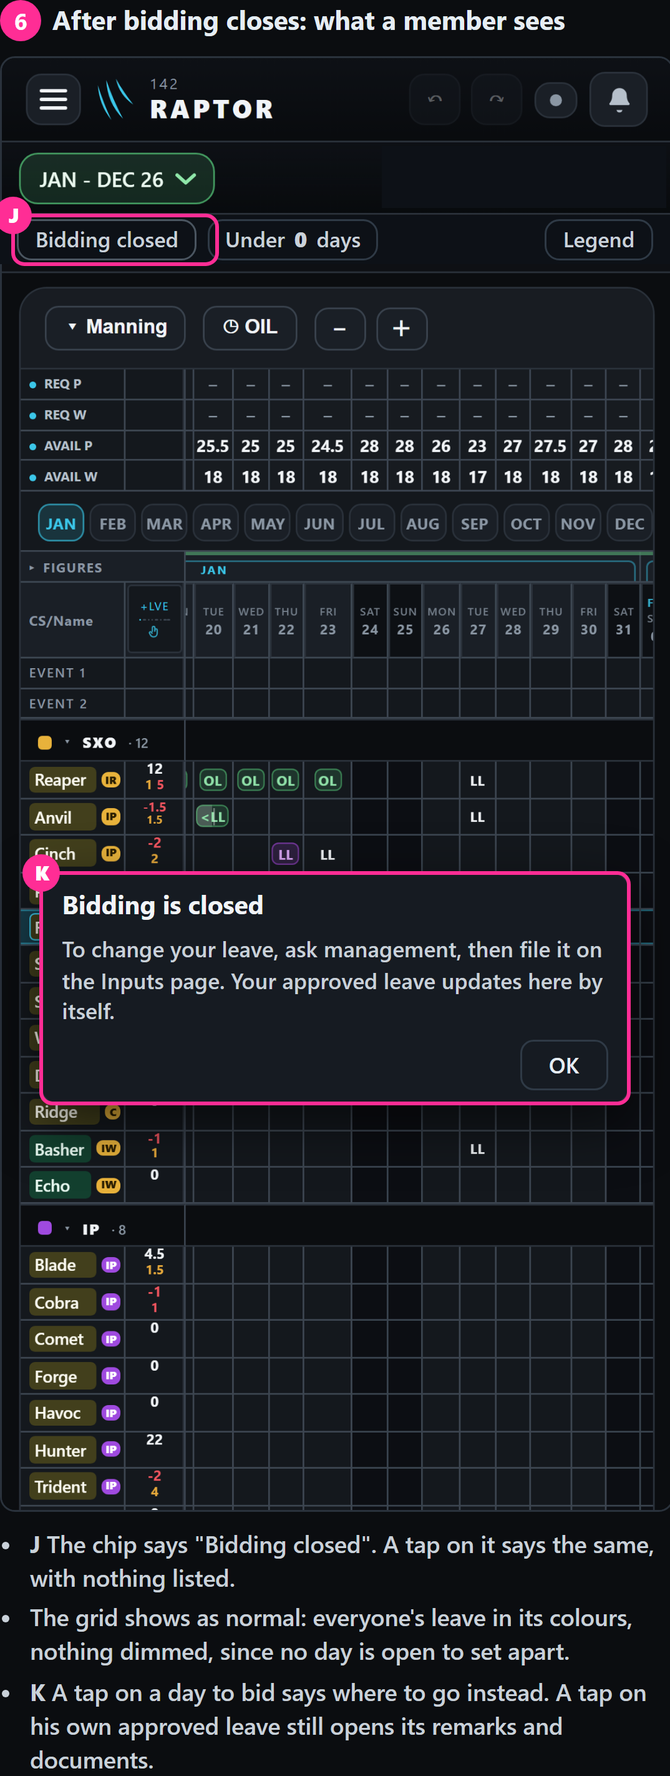
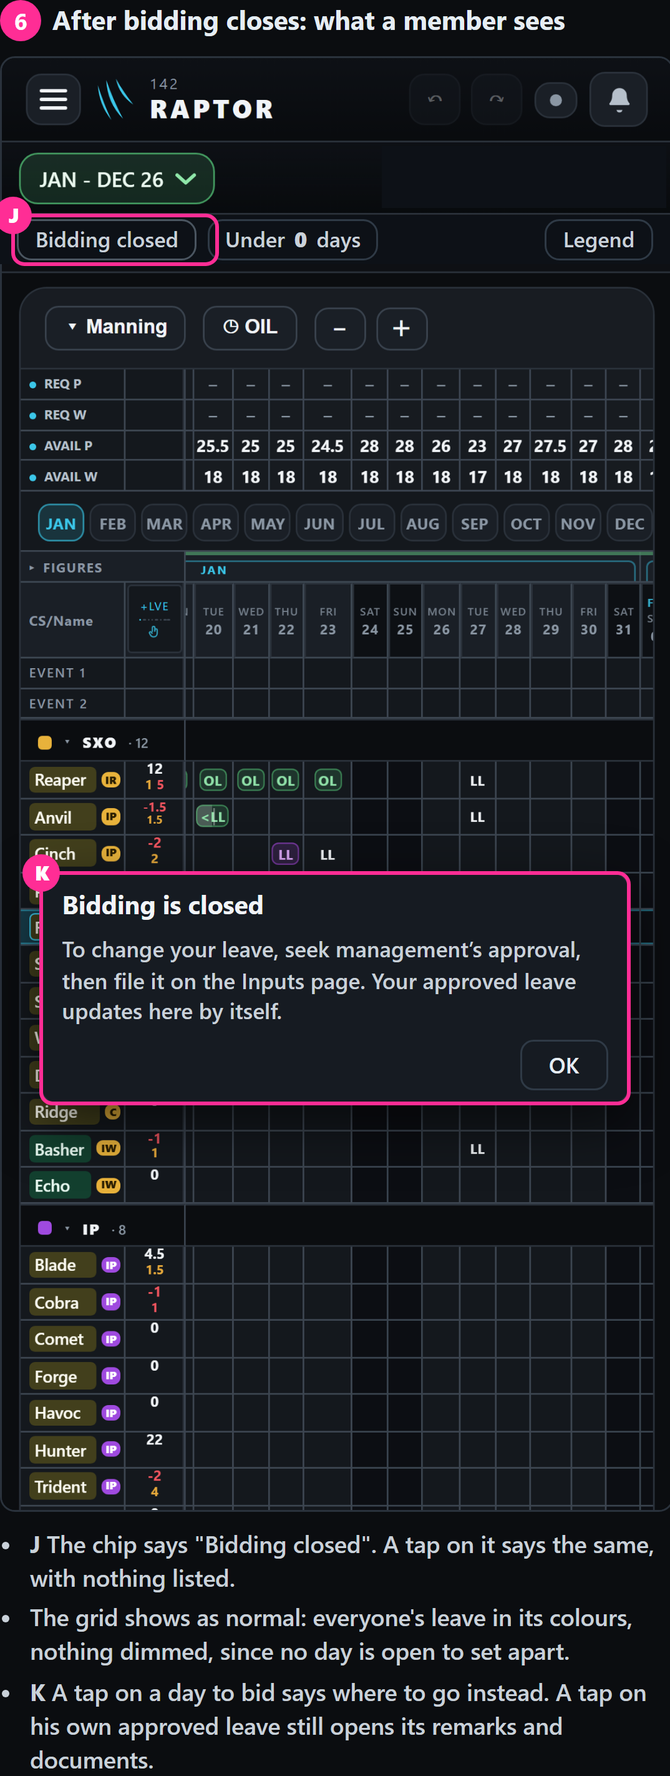
Leave War overhaul: D1176 - the closed note says "seek management's approval" (his words); step 6 redrawn; the page's version 19; the handoff.

Changed region(s): [[0.0922, 0.526, 0.8911, 0.5879]]

diff --git a/raptor-port/docs/mock/lw-overhaul/q5-flow.html b/raptor-port/docs/mock/lw-overhaul/q5-flow.html
@@ -41,7 +41,7 @@ ul{margin:0;padding-left:16px;font:500 12.5px/1.45 system-ui;color:#c9d1d9;displ
 <div class="add mkd" data-n="D">+ Open more dates</div><div class="note">Closed days dim on the grid, with a small lock.</div></div></div></div><ul><li><b>B</b> Your quick way: tap a month to open it whole, first day to last; tap it again to close it. April, May and June tapped here.</li><li><b>C</b> Months next to each other become one line. Its calendar icon is for the rare exact days.</li><li><b>D</b> "+ Open more dates" adds a stretch of exact days.</li><li>With nothing open, the window says "Nothing is open. Members cannot bid."</li></ul></section><section class="step" id="s2b"><div class="st"><i>2b</i>A stretch of exact days, mid-month</div><div class="pic"><img src="full/t-phone-admin.png" alt=""><div class="ov" style="left:0%;top:10.9%;width:100%;height:3.3%;background:#0d1117"><div class="row"><span class="chip open"><i>Open</i>15 Apr – 14 Jul</span><span class="chip">Under <b>0</b> days</span><span class="sp"></span><span class="chip">Legend</span></div></div><div class="ov" style="left:3.2%;top:36.5%;width:93.6%;height:30%;"><div class="sh"><div class="sht"><span class="grip">⠿</span>OPEN FOR BIDDING<em>JAN – DEC 26</em><span class="x">✕</span></div>
 <div class="mos mkd" data-n="E"><span class="mb ">JAN</span><span class="mb ">FEB</span><span class="mb ">MAR</span><span class="mb part">APR</span><span class="mb on">MAY</span><span class="mb on">JUN</span><span class="mb part">JUL</span><span class="mb ">AUG</span><span class="mb ">SEP</span><span class="mb ">OCT</span><span class="mb ">NOV</span><span class="mb ">DEC</span></div>
 <div class="ln" data-n=""><b>15 Apr – 14 Jul</b><span>91 days</span><i><svg viewBox="0 0 16 16" width="14" height="14" aria-hidden="true"><rect x="2" y="3" width="12" height="11" rx="2" fill="none" stroke="currentColor" stroke-width="1.4"/><path d="M2 6.5h12M5 1.6v3M11 1.6v3" fill="none" stroke="currentColor" stroke-width="1.4" stroke-linecap="round"/></svg></i></div>
-<div class="add" data-n="">+ Open more dates</div><div class="note">Closed days dim on the grid, with a small lock.</div></div></div></div><ul><li><b>E</b> April and July are open only in part, so their buttons wear a dotted edge. A tap on one opens it whole.</li></ul></section><section class="step" id="s3"><div class="st"><i>3</i>Exact days: the calendar icon opens the calendar</div><div class="pic"><img src="full/t-bid-dates-phone.png" alt=""><div class="ov" style="left:0%;top:10.9%;width:100%;height:3.3%;background:#0d1117"><div class="row"><span class="chip open"><i>Open</i>6 Apr – 8 May</span><span class="chip">Under <b>0</b> days</span><span class="sp"></span><span class="chip">Legend</span></div></div><div class="ov" style="left:10%;top:38.6%;width:80%;height:3.6%;background:#161b22"><div class="ttl">OPEN FOR BIDDING<em>6 APR – 8 MAY</em></div></div><div class="ov" style="left:27.6%;top:88%;width:37.6%;height:4.4%;background:#161b22"><div class="btn">Save dates</div></div><div class="ov" style="left:5%;top:92.7%;width:90%;height:4.6%;background:#161b22"><div class="del">Remove these dates</div></div><span class="mk" style="left:6.6%;top:43.4%;width:86.8%;height:42.5%"><b>D</b></span><span class="mk" style="left:27.6%;top:88%;width:37.6%;height:4.4%"><b>E</b></span><span class="mk" style="left:26%;top:92.6%;width:48%;height:4.6%"><b>F</b></span></div><ul><li><b>D</b> The calendar you have today: tap the first day, then the last. Any day to any day.</li><li><b>E</b> "Save dates". The window shows the new line.</li><li><b>F</b> "Remove these dates" closes that stretch. Undo brings it back.</li></ul></section><section class="step" id="s4"><div class="st"><i>4</i>The grid shows it</div><div class="pic"><img src="full/t-phone-admin.png" alt=""><div class="ov" style="left:0%;top:10.9%;width:100%;height:3.3%;background:#0d1117"><div class="row"><span class="chip open"><i>Open</i>1 Apr – 30 Jun</span><span class="chip">Under <b>0</b> days</span><span class="sp"></span><span class="chip">Legend</span></div></div><span class="mk" style="left:1.8%;top:10.8%;width:36.5%;height:3.6%"><b>G</b></span><span class="mk" style="left:27.2%;top:33.8%;width:70%;height:1.4%"><b>H</b></span></div><ul><li><b>G</b> The chip shows the open dates; with two stretches it adds "+1".</li><li><b>H</b> The open days wear today's green outline; closed days dim, with a small lock.</li></ul></section><section class="step" id="s6"><div class="st"><i>6</i>After bidding closes: what a member sees</div><div class="pic"><img src="full/t-phone-member.png" alt=""><div class="ov" style="left:57%;top:6.1%;width:42.5%;height:4.3%;background:#0d1117"></div><div class="ov" style="left:0%;top:10.9%;width:100%;height:3.3%;background:#0d1117"><div class="row"><span class="chip shutc">Bidding closed</span><span class="chip">Under <b>0</b> days</span><span class="sp"></span><span class="chip">Legend</span></div></div><div class="ov" style="left:6%;top:56%;width:88%;height:16%;"><div class="sh cn"><b>Bidding is closed</b><span>To change your leave, ask management, then file it on the Inputs page. Your approved leave updates here by itself.</span><div class="ok">OK</div></div></div><span class="mk" style="left:1.8%;top:10.8%;width:31%;height:3.6%"><b>J</b></span><span class="mk" style="left:6%;top:56%;width:88%;height:16%"><b>K</b></span></div><ul><li><b>J</b> The chip says "Bidding closed". A tap on it says the same, with nothing listed.</li><li>The grid shows as normal: everyone's leave in its colours, nothing dimmed, since no day is open to set apart.</li><li><b>K</b> A tap on a day to bid says where to go instead. A tap on his own approved leave still opens its remarks and documents.</li></ul></section><section class="step" id="s5"><div class="st"><i>5</i>What a member sees</div><div class="pic"><img src="full/t-phone-admin.png" alt=""><div class="ov" style="left:0%;top:10.9%;width:100%;height:3.3%;background:#0d1117"><div class="row"><span class="chip open"><i>Open</i>1 Apr – 30 Jun</span><span class="chip">Under <b>0</b> days</span><span class="sp"></span><span class="chip">Legend</span></div></div><div class="ov" style="left:3.2%;top:36.5%;width:93.6%;height:17%;"><div class="sh"><div class="sht"><span class="grip">⠿</span>OPEN FOR BIDDING<em>JAN – DEC 26</em><span class="x">✕</span></div>
+<div class="add" data-n="">+ Open more dates</div><div class="note">Closed days dim on the grid, with a small lock.</div></div></div></div><ul><li><b>E</b> April and July are open only in part, so their buttons wear a dotted edge. A tap on one opens it whole.</li></ul></section><section class="step" id="s3"><div class="st"><i>3</i>Exact days: the calendar icon opens the calendar</div><div class="pic"><img src="full/t-bid-dates-phone.png" alt=""><div class="ov" style="left:0%;top:10.9%;width:100%;height:3.3%;background:#0d1117"><div class="row"><span class="chip open"><i>Open</i>6 Apr – 8 May</span><span class="chip">Under <b>0</b> days</span><span class="sp"></span><span class="chip">Legend</span></div></div><div class="ov" style="left:10%;top:38.6%;width:80%;height:3.6%;background:#161b22"><div class="ttl">OPEN FOR BIDDING<em>6 APR – 8 MAY</em></div></div><div class="ov" style="left:27.6%;top:88%;width:37.6%;height:4.4%;background:#161b22"><div class="btn">Save dates</div></div><div class="ov" style="left:5%;top:92.7%;width:90%;height:4.6%;background:#161b22"><div class="del">Remove these dates</div></div><span class="mk" style="left:6.6%;top:43.4%;width:86.8%;height:42.5%"><b>D</b></span><span class="mk" style="left:27.6%;top:88%;width:37.6%;height:4.4%"><b>E</b></span><span class="mk" style="left:26%;top:92.6%;width:48%;height:4.6%"><b>F</b></span></div><ul><li><b>D</b> The calendar you have today: tap the first day, then the last. Any day to any day.</li><li><b>E</b> "Save dates". The window shows the new line.</li><li><b>F</b> "Remove these dates" closes that stretch. Undo brings it back.</li></ul></section><section class="step" id="s4"><div class="st"><i>4</i>The grid shows it</div><div class="pic"><img src="full/t-phone-admin.png" alt=""><div class="ov" style="left:0%;top:10.9%;width:100%;height:3.3%;background:#0d1117"><div class="row"><span class="chip open"><i>Open</i>1 Apr – 30 Jun</span><span class="chip">Under <b>0</b> days</span><span class="sp"></span><span class="chip">Legend</span></div></div><span class="mk" style="left:1.8%;top:10.8%;width:36.5%;height:3.6%"><b>G</b></span><span class="mk" style="left:27.2%;top:33.8%;width:70%;height:1.4%"><b>H</b></span></div><ul><li><b>G</b> The chip shows the open dates; with two stretches it adds "+1".</li><li><b>H</b> The open days wear today's green outline; closed days dim, with a small lock.</li></ul></section><section class="step" id="s6"><div class="st"><i>6</i>After bidding closes: what a member sees</div><div class="pic"><img src="full/t-phone-member.png" alt=""><div class="ov" style="left:57%;top:6.1%;width:42.5%;height:4.3%;background:#0d1117"></div><div class="ov" style="left:0%;top:10.9%;width:100%;height:3.3%;background:#0d1117"><div class="row"><span class="chip shutc">Bidding closed</span><span class="chip">Under <b>0</b> days</span><span class="sp"></span><span class="chip">Legend</span></div></div><div class="ov" style="left:6%;top:56%;width:88%;height:16%;"><div class="sh cn"><b>Bidding is closed</b><span>To change your leave, seek management’s approval, then file it on the Inputs page. Your approved leave updates here by itself.</span><div class="ok">OK</div></div></div><span class="mk" style="left:1.8%;top:10.8%;width:31%;height:3.6%"><b>J</b></span><span class="mk" style="left:6%;top:56%;width:88%;height:16%"><b>K</b></span></div><ul><li><b>J</b> The chip says "Bidding closed". A tap on it says the same, with nothing listed.</li><li>The grid shows as normal: everyone's leave in its colours, nothing dimmed, since no day is open to set apart.</li><li><b>K</b> A tap on a day to bid says where to go instead. A tap on his own approved leave still opens its remarks and documents.</li></ul></section><section class="step" id="s5"><div class="st"><i>5</i>What a member sees</div><div class="pic"><img src="full/t-phone-admin.png" alt=""><div class="ov" style="left:0%;top:10.9%;width:100%;height:3.3%;background:#0d1117"><div class="row"><span class="chip open"><i>Open</i>1 Apr – 30 Jun</span><span class="chip">Under <b>0</b> days</span><span class="sp"></span><span class="chip">Legend</span></div></div><div class="ov" style="left:3.2%;top:36.5%;width:93.6%;height:17%;"><div class="sh"><div class="sht"><span class="grip">⠿</span>OPEN FOR BIDDING<em>JAN – DEC 26</em><span class="x">✕</span></div>
 
 <div class="ln" data-n=""><b>1 Apr – 30 Jun</b><span>91 days</span></div>
 <div class="note">You can bid on these dates. The rest of the year is closed.</div></div></div><span class="mk" style="left:1.8%;top:10.8%;width:36.5%;height:3.6%"><b>I</b></span></div><ul><li><b>I</b> The same chip. A tap shows the open dates, read only: no calendar icon, nothing to add.</li></ul></section>

diff --git a/HANDOFF.md b/HANDOFF.md
@@ -23,10 +23,10 @@ the later merge keeps both (D78).
 <!-- now:claude/leave-war-overhaul -->
 ### 21 Oct 26 — the Leave War overhaul, rounds 2 and 3 of the full mock-up (D1140), `claude/leave-war-overhaul` (pushed, no pull request) — next: his answer to Q5 (round 3's last), then round 4 with the top row redrawn (D1173, D1174, the open-dates chip); nothing built
 - **The page:** https://claude.ai/artifact/6xaVkA1QHg7UmevMBRFaT9 (version 16; source `raptor-port/docs/mock/lw-overhaul/full-page.html`, pictures `…/full/`). Static drawings this chat (no app build needed; run with `NODE_PATH=C:/Users/User/projects/Raptor/raptor-port/node_modules` and `LWMOCK_OUT=<scratchpad>` from that folder, then copy the chosen pictures from `<scratchpad>/out` into `full/`): `full-cells2.mjs` (cells his way, p4b), `full-cells3.mjs` (look E, p4c), `full-cells4.mjs` (his colours F, every input, 4b, p4d), `full-q5.mjs` (open vs locked, mid-month, p5), `full-q5-steps.mjs` (today's real screens marked, p5-step), `full-q5-flow.mjs` (the "Open for bidding" window step by step over real phone screens, with his month buttons, p5-flow). Edit scripts with the Edit tool or a script file — the shell ate \\ and ${…} three times (heredocs and node -e).
-- **His rulings this chat (all homed in the note's §5, D201 sweeps done):** D1157 year grid stays · D1158 Ack goes (narrows D331) · D1159 the one Document button (lesson 20) · D1160 rows keep their height, a whole day fills its cell, a half its half (narrows D1145; lesson 19) · D1161 all-green is boring (lesson 21; answered by D1165) · D1162 OD = overseas duty · D1163 Gryphon's SC not taken · D1164 HO drawn in a half (narrows D1160) · D1165 Q2 = E, a colour per kind of leave, his colours to confirm (LL / OL two ambers, OIL green; course lilac) · D1166 Q6 = B in his words: locks stop only bidding on the war, the Inputs page is never locked, after closing a member edits his leave there after verbal approval (narrows D1156; P6 struck) · D1167 4b = A, two whole-day entries side by side (narrows D1146; he chose it over the agent's C — three letters cramped on a phone, to check at the build) · D1175 Q2 confirmed: look F as drawn · D1173 the "Viewing as" chip goes (replaces D365, narrows D678) · D1174 the period picker labelled "View", phone too · D1172 a calendar icon on each open stretch, not a pencil (D1170–D1171 belong to another branch) · D1169 hold and drag across the month buttons opens every month passed over · D1168 the "Open for bidding" window gets month quick-buttons, a tap opens or closes a whole month, exact days behind the pencil (lesson 22). Fresh Opus reads: lessons 19–21 and their lines read and fixed; lesson 22 and D1167–D1168 read too, its marks taken (closing a month by a second tap, and the buttons inside the window, marked as the agent's readings). **Owed:** one fresh Opus read of the short lines and full rows of D1169 and D1172–D1174 (D138, D941 — no new lesson among them).
-- **His question "after bidding closes, what do members see?"** answered and drawn (step 6 of `full-q5-flow.mjs`, `full/p5-flow6.png`): the chip reads "Bidding closed"; the grid shows as normal, nothing dimmed; a tap on a day to bid says "Bidding is closed. To change your leave, ask management, then file it on the Inputs page"; his own approved leave still opens its remarks and documents — the agent's design, not yet ruled; goes with his Q5 answer.
+- **His rulings this chat (all homed in the note's §5, D201 sweeps done):** D1157 year grid stays · D1158 Ack goes (narrows D331) · D1159 the one Document button (lesson 20) · D1160 rows keep their height, a whole day fills its cell, a half its half (narrows D1145; lesson 19) · D1161 all-green is boring (lesson 21; answered by D1165) · D1162 OD = overseas duty · D1163 Gryphon's SC not taken · D1164 HO drawn in a half (narrows D1160) · D1165 Q2 = E, a colour per kind of leave, his colours to confirm (LL / OL two ambers, OIL green; course lilac) · D1166 Q6 = B in his words: locks stop only bidding on the war, the Inputs page is never locked, after closing a member edits his leave there after verbal approval (narrows D1156; P6 struck) · D1167 4b = A, two whole-day entries side by side (narrows D1146; he chose it over the agent's C — three letters cramped on a phone, to check at the build) · D1176 the closed note says "seek management's approval" · D1175 Q2 confirmed: look F as drawn · D1173 the "Viewing as" chip goes (replaces D365, narrows D678) · D1174 the period picker labelled "View", phone too · D1172 a calendar icon on each open stretch, not a pencil (D1170–D1171 belong to another branch) · D1169 hold and drag across the month buttons opens every month passed over · D1168 the "Open for bidding" window gets month quick-buttons, a tap opens or closes a whole month, exact days behind the pencil (lesson 22). Fresh Opus reads: lessons 19–21 and their lines read and fixed; lesson 22 and D1167–D1168 read too, its marks taken (closing a month by a second tap, and the buttons inside the window, marked as the agent's readings). **Owed:** one fresh Opus read of the short lines and full rows of D1169 and D1172–D1174 (D138, D941 — no new lesson among them).
+- **His question "after bidding closes, what do members see?"** answered and drawn (step 6 of `full-q5-flow.mjs`, `full/p5-flow6.png`): the chip reads "Bidding closed"; the grid shows as normal, nothing dimmed; a tap on a day to bid says "Bidding is closed. To change your leave, seek management's approval, then file it on the Inputs page" (his words, D1176); his own approved leave still opens its remarks and documents — the agent's design, not yet ruled; goes with his Q5 answer.
 - **Still open in round 3:** Q2 "OK" on his colours as drawn (with the amber cost: the moved edge and clash corner need a dark outline at the build); Q5 — the agent recommends "say what is open" (today's dates and calendar, the stage button gone, his month buttons; drawn step by step) over Gryphon's locks; choosing it replaces D1156's lock dates (D1166 already narrowed it). Then round 4 = Q7–Q10 (Q7 approve all for a period, Q8 Balances, Q9 the tick off each time, Q10 where Approvals opens — Q10's "Lock dates" chip becomes the open-dates chip if Q5 is "open"), round 5 = Q11 (day panel stacked), Q12 (Management), then the readings and P1–P5 to strike (note §9.3, §5).
-- **Numbers:** this branch held **D1140–D1169** and has used them all, then took D1172–D1175 (D1170–D1171 are another branch's) — before the next ruling, check the live rulings, the archive and the other branches for the next free number above D1169 and tell the other chats which range this branch now takes.
+- **Numbers:** this branch held **D1140–D1169** and has used them all, then took D1172–D1176 (D1170–D1171 are another branch's) — before the next ruling, check the live rulings, the archive and the other branches for the next free number above D1169 and tell the other chats which range this branch now takes.
 - **Not redrawn:** the window pictures of the full mock-up still show the drawn paper clip; the build uses the Document button (D1159), the page says so.
 - **Known:** the document check's size tripwires on shipping.md and How we work's rulings are main's (fixed by pull request 563, merged); this branch has not merged main.
 <!-- /now -->

diff --git a/DECISIONS.md b/DECISIONS.md
@@ -67,7 +67,7 @@ ruling, or an explicit no. **Not** ordinary task instructions ("run the tests", 
 | How we work | `.claude/rules/decisions/how-we-work.md` | in EVERY session | D1126, D1127, D1124, D1122, D1097, D1093, D1091, D1090, D1089, D1088, D1087, D1086, D1033, D1024, D994, D991, D976, D975, D974, D973, D972, D971, D970, D969, D942, D941, D926, D921, D906, D905, D904, D903, D902, D895, D887, D886, D885, D884, D878, D876, D874, D872, D871, D870, D869, D868, D867, D853, D852, D850, D847, D846, D835, D832, D822, D821, D820, D819, D813, D812, D808, D802, D811, D790, D787, D785, D775, D774, D766, D765, D761, D754, D726, D672, D667, D625, D623, D611, D610, D608, D607, D602, D601, D596, D595, D590, D588, D587, D568, D541, D499, D495, D493, D491, D490, D489, D487, D486, D485, D473, D466, D465, D453, D353, D351, D350, D349, D348, D347, D390, D343, D302, D228, D203, D201, D106, D90, D162, D148, D147, D144, D143, D141, D140, D138, D137, D136, D151, D89, D87, D86, D84, D78, D73, D72, D70, D69, D68, D67, D63, D62, D60, D59, D58, D57, D56, D54, D53, D29, D23, D22, D17, D16, D14, D13, D12, D11, D10, D9, D8, D7, D6, D5, D4 |
 | Tracker | `.claude/rules/decisions/tracker.md` | when a Tracker file is read (its code, docs, scripts, evidence) | D1018, D1015, D1014, D1007, D1006, D1005, D1004, D1003, D1002, D992, D989, D988, D987, D986, D985, D984, D983, D982, D981, D980, D979, D924, D922, D899, D801, D566, D564, D560, D474, D464, D462, D463, D377, D376, D375, D374, D373, D372, D371, D370, D191, D158, D157, D134, D132, D131, D130, D129, D128, D127, D126, D124, D123, D122, D121, D120, D64 |
 | People & accounts | `.claude/rules/decisions/people-accounts.md` | when an accounts, sign-in, Admin → Users, Quals, one-door or posting file is read (D390) | D1128, D1110, D993, D937, D935, D329, D328, D327, D326, D325, D323, D322, D321, D320, D310, D309, D308, D307, D306, D304, D303, D300, D299, D298, D297, D296, D295, D294, D293, D292, D290, D289, D288, D287, D286, D285, D284, D283, D282, D281, D280, D229, D227, D226, D225, D224, D223, D222, D221, D220, D219, D216, D215, D214, D213, D211, D204, D200, D218, D166, D165, D149 |
-| Leave War | `.claude/rules/decisions/leave-war.md` | when a Leave War file is read (its code, docs, e2e, evidence) | D1175, D1174, D1173, D1172, D1169, D1168, D1167, D1166, D1165, D1164, D1163, D1162, D1161, D1160, D1159, D1158, D1157, D1156, D1155, D1154, D1153, D1152, D1151, D1150, D1149, D1148, D1147, D1146, D1145, D1144, D1143, D1142, D1141, D1140, D1117, D1019, D1016, D1001, D1000, D998, D892, D891, D890, D883, D882, D881, D827, D823, D805, D679, D678, D677, D676, D674, D673, D670, D669, D461, D460, D418, D352, D335, D334, D333, D332, D331, D266, D265, D264, D262, D160, D159 |
+| Leave War | `.claude/rules/decisions/leave-war.md` | when a Leave War file is read (its code, docs, e2e, evidence) | D1176, D1175, D1174, D1173, D1172, D1169, D1168, D1167, D1166, D1165, D1164, D1163, D1162, D1161, D1160, D1159, D1158, D1157, D1156, D1155, D1154, D1153, D1152, D1151, D1150, D1149, D1148, D1147, D1146, D1145, D1144, D1143, D1142, D1141, D1140, D1117, D1019, D1016, D1001, D1000, D998, D892, D891, D890, D883, D882, D881, D827, D823, D805, D679, D678, D677, D676, D674, D673, D670, D669, D461, D460, D418, D352, D335, D334, D333, D332, D331, D266, D265, D264, D262, D160, D159 |
 | Scheduler & amendments | `.claude/rules/decisions/scheduler.md` | when a scheduler, board, engine, amendment or storage file is read | D1121, D1120, D1119, D1118, D1116, D1115, D1114, D1113, D1112, D1111, D1109, D1085, D1084, D1083, D1081, D1080, D1067, D1066, D1065, D1064, D1063, D1062, D1061, D1060, D1048, D1047, D1046, D1045, D1044, D1043, D1042, D1041, D1040, D1039, D1038, D1037, D1036, D1035, D1034, D1032, D1031, D1030, D1029, D1028, D1027, D1026, D1021, D1020, D1017, D1013, D1012, D1011, D1010, D1009, D997, D995, D958, D957, D955, D950, D949, D947, D945, D940, D938, D936, D933, D932, D931, D929, D928, D925, D901, D877, D860, D845, D844, D842, D841, D840, D839, D838, D837, D836, D834, D833, D831, D830, D828, D825, D824, D815, D809, D807, D806, D800, D797, D796, D776, D769, D778, D767, D762, D760, D759, D757, D756, D755, D753, D751, D748, D747, D743, D742, D740, D739, D737, D736, D735, D734, D733, D731, D717, D714, D713, D711, D710, D706, D703, D702, D686, D682, D716, D668, D665, D663, D661, D660, D645, D644, D642, D641, D640, D637, D636, D634, D605, D603, D600, D599, D598, D597, D594, D562, D561, D558, D555, D554, D553, D551, D550, D548, D546, D544, D537, D535, D532, D531, D530, D529, D527, D526, D525, D524, D523, D522, D521, D520, D519, D518, D517, D516, D514, D513, D512, D511, D510, D509, D507, D506, D505, D504, D503, D502, D501, D500, D498, D497, D488, D482, D481, D479, D478, D475, D472, D471, D469, D454, D452, D451, D450, D356, D355, D367, D363, D362, D361, D360, D346, D345, D344, D340, D339, D338, D337, D279, D278, D277, D276, D275, D274, D272, D271, D270, D263, D212, D189, D188, D187, D186, D185, D184, D183, D179, D178, D177, D176, D175, D174, D172, D171, D170, D169, D168, D167, D119, D118, D117, D116, D114, D113, D111, D110, D109, D107, D105, D103, D102, D101, D100, D99, D98, D97, D96, D95, D94, D93, D92, D91, D161, D77, D66, D65, D51, D50, D47, D45, D44, D41, D40, D39, D38, D37, D36, D33, D27 |
 | The Inputs pages | `.claude/rules/decisions/inputs.md` | when a file of the Inputs list or calendar, the SANS calendar, the Calendar window, or an input's own window or card is read | D1125, D1123, D1096, D1095, D1025, D1023, D1022, D999, D996, D977, D968, D967, D965, D963, D961, D960, D959, D953, D952, D948, D927, D920, D919, D917, D916, D910, D909, D908, D900, D897, D893, D879, D861, D854, D851, D849, D848, D795, D792, D786, D777, D773, D771, D770, D768, D763, D732, D729, D728, D727, D725, D724, D723, D722, D721, D720, D719, D712, D709, D707, D705, D704, D701, D698, D697, D696, D695, D694, D693, D692, D691, D689, D688, D687, D685, D684, D683, D681, D675, D671, D664, D659, D658, D657, D656, D655, D653, D652, D651, D650, D649, D648, D647, D646, D639, D638, D635, D633, D632, D631, D630, D629, D628, D627, D626, D624, D622, D621, D620, D619, D618, D617, D584, D583, D582, D581, D577, D576, D574, D572, D570, D569, D547, D364 |
 | OIL | `.claude/rules/decisions/oil.md` | when an OIL, Leave War, placeholder-puck or publishing file is read | D1094, D1008, D978, D923, D865, D863, D862, D818, D816, D814, D804, D793, D783, D782, D781, D606, D592, D591, D470, D402, D401, D400, D261, D260, D163, D142, D82, D81, D80, D79, D52, D49, D48, D43, D42, D35, D32, D31, D28, D26, D25, D24, D21, D19, D15, D2, D1 |

diff --git a/.claude/decisions-full/leave-war.md b/.claude/decisions-full/leave-war.md
@@ -8,6 +8,7 @@ change tail. Newest first; each row keeps the date it was recorded.
 
 | # | Date | His ruling, in his words where short enough | What it means | Where it lives now |
 |---|---|---|---|---|
+| D1176 | 21 Oct 26 | *"perhaps seek management's approval"* — with his picture of the drawn note a member sees when he taps a day to bid after bidding closes ("To change your leave, ask management, then file it on the Inputs page…") | **The note a member sees when he taps a Leave War day to bid while nothing is open reads: "Bidding is closed. To change your leave, seek management's approval, then file it on the Inputs page. Your approved leave updates here by itself."** Its words follow D1166 (verbal approval from management, then the Inputs page). **The agent's reading:** the note itself — and the rest of the closed look (the chip "Bidding closed", the grid as normal) — is the agent's design shown with question 5, built only if question 5 keeps "say what is open". Built with the overhaul, [LW-OVERHAUL]. | `raptor-port/docs/superpowers/specs/2026-10-21-leave-war-overhaul.md` §5 (D1176) |
 | D1175 | 21 Oct 26 | *"2 f"* — round 3 of the Leave War full mock-up, question 2, confirming look F (his colours, drawn for every input) | **The Leave War's cell colours are look F as drawn: local leave light amber, overseas leave deep amber, OIL, FO and HO green, other leave (CCL, FCL, PL, CL, EL) blue, a course lilac, overseas duty grey, medical (B, C, OML, HL) rose; filled is approved, hollow and dashed is waiting, grey and struck through is refused.** Confirms D1165. **The agent's readings, told to him:** the gold dotted "moved" edge and the amber clash corner get a thin dark outline so they show on amber leave, checked on his phone at the build; the Legend is redrawn to match. Built with the overhaul, [LW-OVERHAUL]. | `raptor-port/docs/superpowers/specs/2026-10-21-leave-war-overhaul.md` §5 (D1175) |
 | D1174 | 21 Oct 26 | *"We dont need a viewing as saber correct? the desktop already shows that saber is on the top right. the user who logs into his account knows hes saber. Instead of period perhaps View would be more intuitive? and View can also now be on the mobile"*, with his pictures of the Leave War's top on a phone and a desktop | **The Leave War's period picker is labelled "View" — "View JAN – DEC 26" — not "Period", on a desktop and now on a phone too.** The agent agreed when he asked: it reads as a sentence, and with "Viewing as" gone the word is free. **The agent's readings:** the "+ New" beside it stays; on a phone the label sits before the picker on the first line, where "Viewing as" stood (D678's first line). Built with the overhaul, [LW-OVERHAUL]. | `raptor-port/docs/superpowers/specs/2026-10-21-leave-war-overhaul.md` §5 (D1174) |
 | D1173 | 21 Oct 26 | *"We dont need a viewing as saber correct? the desktop already shows that saber is on the top right. the user who logs into his account knows hes saber. Instead of period perhaps View would be more intuitive? and View can also now be on the mobile"*, with his pictures of the Leave War's top on a phone and a desktop | **The Leave War's "Viewing as <callsign>" chip goes, on a desktop and a phone: the name badge at the top right already says who is signed in, and "My leave" (D1141) carries his own figures.** Checked in the code: on the Leave War it is only a label (it says every number on the page is his), not a switch — the admin / member switch is the name badge (D292), which stays. Replaces D365 (its own line on a phone) and narrows D678 (the phone's first line: the period and "+"). **The agent's readings:** the counter window's "Viewing as" title (whose figures a column shows) is not this chip and is left. Built with the overhaul, [LW-OVERHAUL]. | `raptor-port/docs/superpowers/specs/2026-10-21-leave-war-overhaul.md` §5 (D1173) |

diff --git a/raptor-port/docs/superpowers/specs/2026-10-21-leave-war-overhaul.md b/raptor-port/docs/superpowers/specs/2026-10-21-leave-war-overhaul.md
@@ -259,6 +259,7 @@ this instead for document to standardise it. 4 how about u keep it as B and make
 - **And (D1172):** "perhaps instead of an edit icon put a calendar icon" — each open stretch's line carries a calendar icon, not a pencil. He also asked how the main page looks with two stretches open — drawn (`../../mock/lw-overhaul/full-q5-two.mjs`).
 - **And (D1173, D1174):** the "Viewing as <callsign>" chip goes (only a label on the war — the admin / member switch is the name badge, D292; replaces D365, narrows D678); the period picker is labelled "View" ("View JAN – DEC 26"), on a phone too. To draw with round 4's Q10 (the top row).
 - **Q2 confirmed (D1175):** "2 f" — look F as drawn, every input.
+- **And (D1176):** the closed note's words — "Bidding is closed. To change your leave, seek management's approval, then file it on the Inputs page. Your approved leave updates here by itself."
 - **The rounds that follow, re-cut to four questions each (21 Oct 26):** round 3 — Q2 again (drawn his way:
   `../../mock/lw-overhaul/full/p4b-*.png`, script `full-cells2.mjs`), Q4b (his question "in what scenario": the clash rules allow only leave during a course or overseas duty, leave beside
   ATT B, and an FO given by hand on a leave day; recommended now C — the leave fills the cell, the other a strip down its right

diff --git a/.claude/rules/decisions/leave-war.md b/.claude/rules/decisions/leave-war.md
@@ -56,6 +56,7 @@ rules — `raptor-port/docs/superpowers/specs/2026-09-20-one-absence-behaviour-r
 
 | # | Date | The rule |
 |---|---|---|
+| D1176 | 21 Oct 26 | The note a member sees when he taps a Leave War day to bid while nothing is open reads: "Bidding is closed. To change your leave, seek management's approval, then file it on the Inputs page. Your approved leave updates here by itself." |
 | D1175 | 21 Oct 26 | The Leave War's cell colours are look F as drawn: local leave light amber, overseas leave deep amber, OIL, FO and HO green, other leave (CCL, FCL, PL, CL, EL) blue, a course lilac, overseas duty grey, medical (B, C, OML, HL) rose; filled is approved, hollow and dashed is waiting, grey and struck through is refused. |
 | D1174 | 21 Oct 26 | The Leave War's period picker is labelled "View" — "View JAN – DEC 26" — not "Period", on a desktop and now on a phone too. |
 | D1173 | 21 Oct 26 | The Leave War's "Viewing as <callsign>" chip goes, on a desktop and a phone: the name badge at the top right already says who is signed in, and "My leave" (D1141) carries his own figures. |
